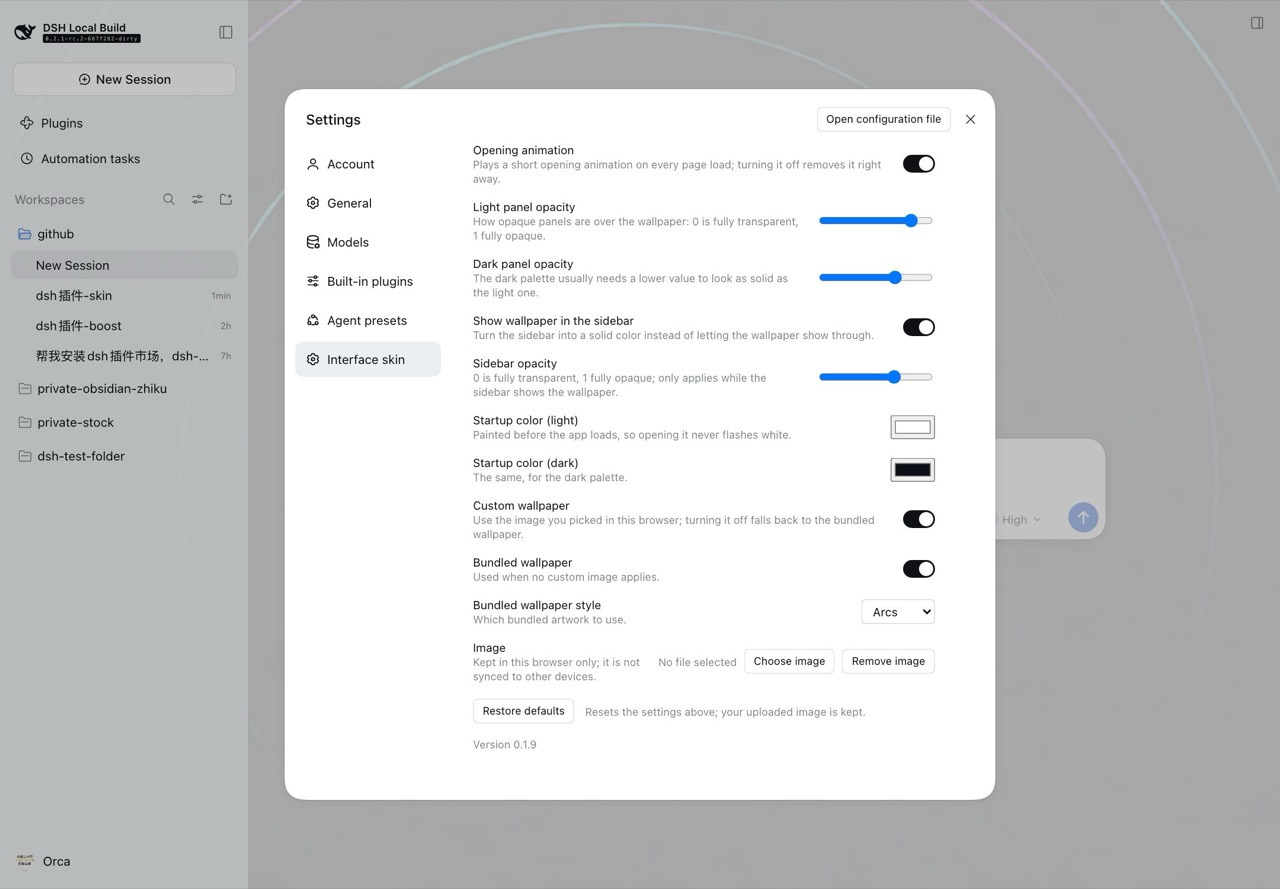
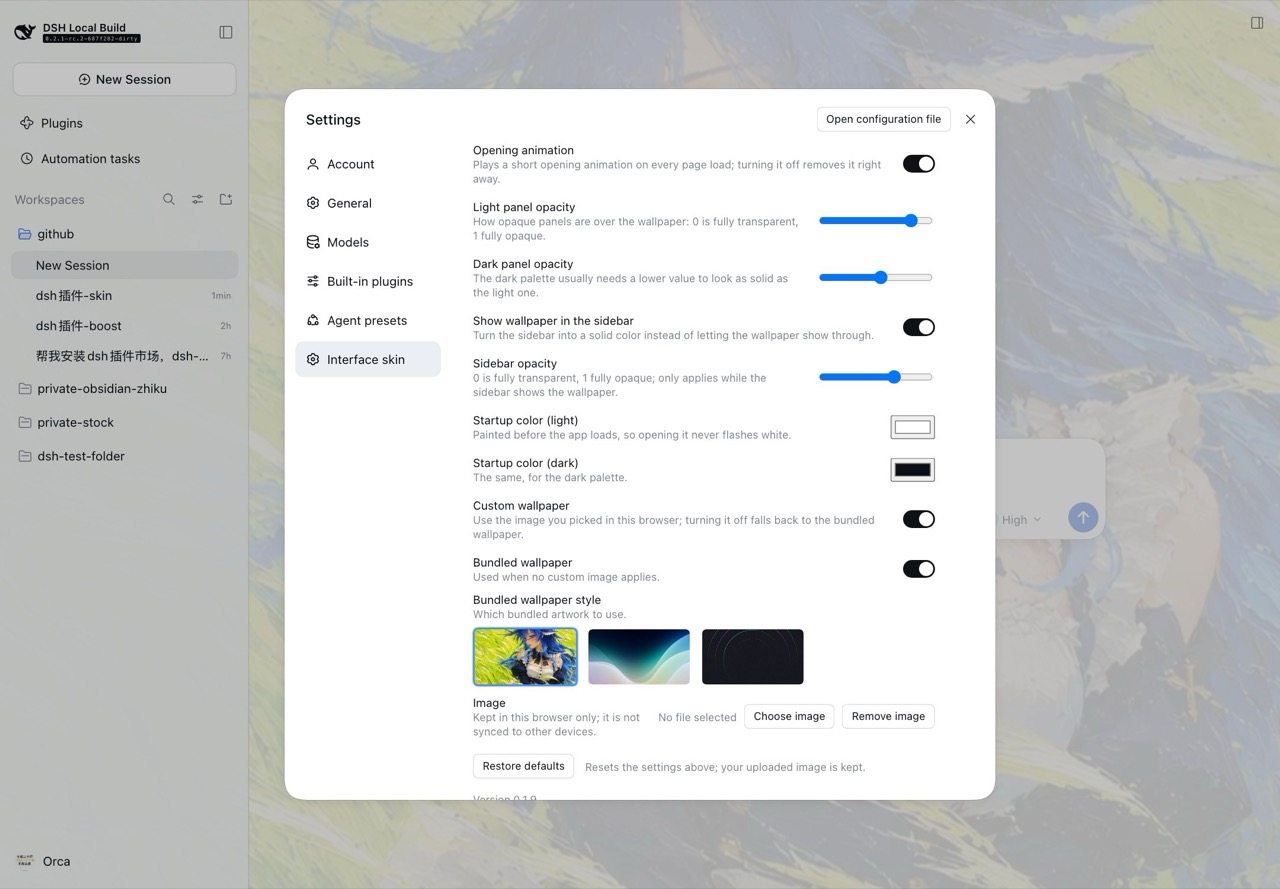
feat(shell-skin): pick the bundled wallpaper from thumbnails
Replace the dropdown with a row of previews on its own line; the selected
one carries a ring, the names stay as accessible labels only.

diff --git a/src/client/SkinSettingsRow.tsx b/src/client/SkinSettingsRow.tsx
@@ -79,6 +79,8 @@ export interface SkinSettingsRowProps {
   hasWallpaper?(): boolean
   /** Plugin version, shown at the bottom of the page. */
   version?: string
+  /** Bundled artwork choices rendered as thumbnails. */
+  presets?: readonly { id: string; src: string; labelKey: SkinKey }[]
   /** Row settings face, absent while the namespace is not served. */
   form?: {
     state: SkinConfigState
@@ -109,7 +111,7 @@ const DEFAULTS: SkinConfigValues = {
  * @param props - owner props supplied by the Plugins page.
  * @returns the description line, the form, or null while nothing is known.
  */
-export function SkinSettingsRow({ view, form, preview, setWallpaper, clearWallpaper, wallpaperName, hasWallpaper, version, t }: SkinSettingsRowProps): ReactElement | null {
+export function SkinSettingsRow({ view, form, preview, setWallpaper, clearWallpaper, wallpaperName, hasWallpaper, version, presets, t }: SkinSettingsRowProps): ReactElement | null {
   // Dragging a range fires `change` per pixel. Staging the preview locally and
   // committing once on release keeps the Host at one write per gesture instead
   // of one per frame.
@@ -376,23 +378,46 @@ export function SkinSettingsRow({ view, form, preview, setWallpaper, clearWallpa
         />
       </label>
 
-      <label style={row}>
+      <div style={{ display: 'grid', gap: 8 }}>
         <span style={label}>
           {copy('preset.title')}
           <br />
           <span style={hint}>{copy('preset.description')}</span>
         </span>
-        <select
-          value={value.bundledPreset}
-          disabled={disabled || !value.bundledWallpaper}
-          style={{ padding: '4px 8px', borderRadius: 6, border: '1px solid rgba(0,0,0,0.15)', background: 'transparent', color: 'inherit' }}
-          onChange={event => { write('bundledPreset', event.target.value); commit() }}
-        >
-          <option value="classic">{copy('preset.classic')}</option>
-          <option value="aurora">{copy('preset.aurora')}</option>
-          <option value="arc">{copy('preset.arc')}</option>
-        </select>
-      </label>
+        <span style={{ display: 'flex', gap: 10 }}>
+          {(presets ?? []).map(preset => {
+            const selected = value.bundledPreset === preset.id
+            return (
+              <button
+                key={preset.id}
+                type="button"
+                aria-label={copy(preset.labelKey)}
+                aria-pressed={selected}
+                disabled={disabled || !value.bundledWallpaper}
+                onClick={() => { write('bundledPreset', preset.id); commit() }}
+                style={{
+                  padding: 0,
+                  width: 118,
+                  height: 66,
+                  overflow: 'hidden',
+                  borderRadius: 8,
+                  cursor: 'pointer',
+                  background: 'transparent',
+                  border: selected ? '2px solid #4c8dff' : '2px solid transparent',
+                  boxShadow: selected ? '0 0 0 1px rgba(76,141,255,0.35)' : 'inset 0 0 0 1px rgba(0,0,0,0.12)',
+                  opacity: disabled || !value.bundledWallpaper ? 0.5 : 1,
+                }}
+              >
+                <img
+                  src={preset.src}
+                  alt=""
+                  style={{ width: '100%', height: '100%', objectFit: 'cover', display: 'block' }}
+                />
+              </button>
+            )
+          })}
+        </span>
+      </div>
 
       {value.customWallpaper ? (
         <div style={row}>

diff --git a/src/client/SkinSettingsSection.tsx b/src/client/SkinSettingsSection.tsx
@@ -40,6 +40,8 @@ export interface SkinSettingsSectionProps {
   hasWallpaper?(): boolean
   /** Plugin version shown in the footer. */
   version?: string
+  /** Bundled artwork choices, with the thumbnail the row shows. */
+  presets?: readonly { id: string; src: string; labelKey: SkinKey }[]
 }
 
 /**
@@ -48,7 +50,7 @@ export interface SkinSettingsSectionProps {
  * @returns the settings page body.
  */
 export function SkinSettingsSection({
-  t, form, preview, setWallpaper, clearWallpaper, wallpaperName, hasWallpaper, version,
+  t, form, preview, setWallpaper, clearWallpaper, wallpaperName, hasWallpaper, version, presets,
 }: SkinSettingsSectionProps): ReactElement {
   const [state, setState] = useState<SkinConfigState>(() => form.getSnapshot())
 
@@ -72,6 +74,7 @@ export function SkinSettingsSection({
       wallpaperName={wallpaperName}
       hasWallpaper={hasWallpaper}
       version={version}
+      presets={presets}
     />
   )
 }

diff --git a/src/client/index.tsx b/src/client/index.tsx
@@ -390,6 +390,11 @@ export function apply(ctx: Context): void {
       preview: (patch: Partial<SkinSettings>) => { applyNow({ ...currentValues, ...patch }) },
       form: ctx.configForms.get(SETTINGS_NAMESPACE),
       version: currentValues.version,
+      presets: [
+        { id: 'classic', src: wallpaper, labelKey: 'preset.classic' },
+        { id: 'aurora', src: wallpaperAurora, labelKey: 'preset.aurora' },
+        { id: 'arc', src: wallpaperArc, labelKey: 'preset.arc' },
+      ],
       // The custom wallpaper never reaches the Host: the file stays in this
       // browser's IndexedDB and only its Blob URL is applied.
       setWallpaper: async (file: File) => {
